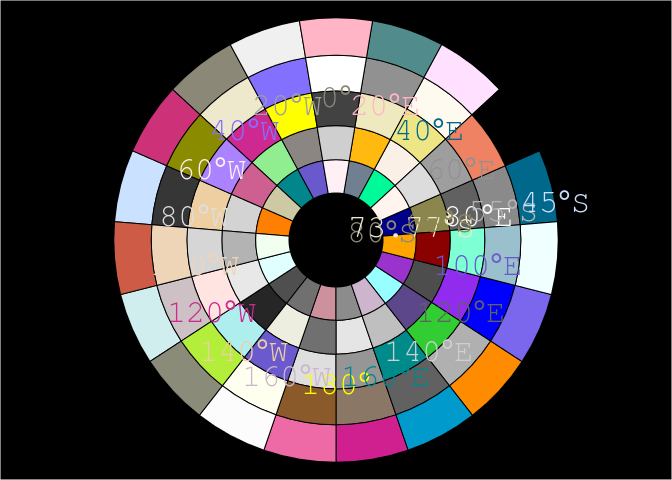
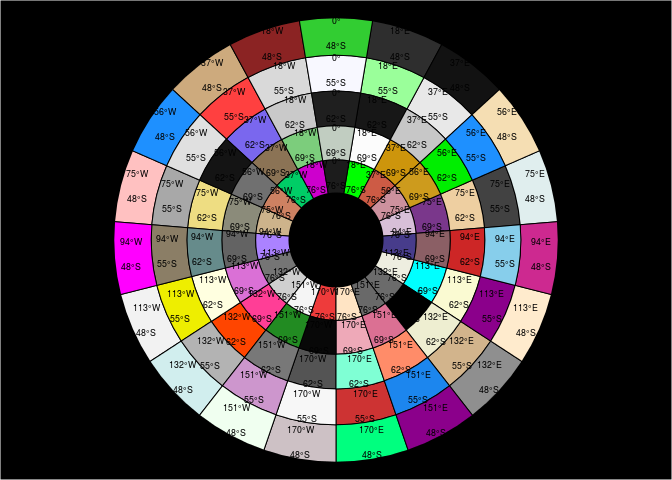
update labels

diff --git a/README.md b/README.md
@@ -88,16 +88,22 @@ Continuing from the sea ice example, build the graticule grid as actual polygons
 ``` r
 polargrid <- graticule(lons = c(meridians, 180), lats = parallels,  proj = projection(ice), tiles = TRUE)
 #> Loading required namespace: rgeos
-labs <- graticule_labels(meridians, parallels,  proj = projection(ice), yline = max(parallels) - 15, xline = 80)
+centroids <- project(coordinates(polargrid), projection(ice), inv = TRUE)
+labs <- graticule_labels(meridians, parallels,  proj = projection(ice))
+labs <- graticule_labels(as.integer(centroids[,1]), as.integer(centroids[,2]),  proj = projection(ice))
+labs <- labs[!duplicated(as.data.frame(labs)), ] ## this needs a fix
 cols <- sample(colors(), nrow(polargrid))
 op <- par(mar = rep(0, 4))
 plot(polargrid, col  = cols, bg = "black")
-text(labs, lab = parse(text = labs$lab), col = sample(cols, nrow(labs)), family = "mono", cex = 2)
+
+text(labs[labs$islon, ], lab = parse(text = labs$lab[labs$islon]), col = "black",  cex = .55, pos = 3)
+text(labs[!labs$islon, ], lab = parse(text = labs$lab[!labs$islon]), col = "black", cex = .55, pos = 1)
 ```
 
 ![](README-unnamed-chunk-4-1.png)
 
 ``` r
+
 par(op)
 ```
 
